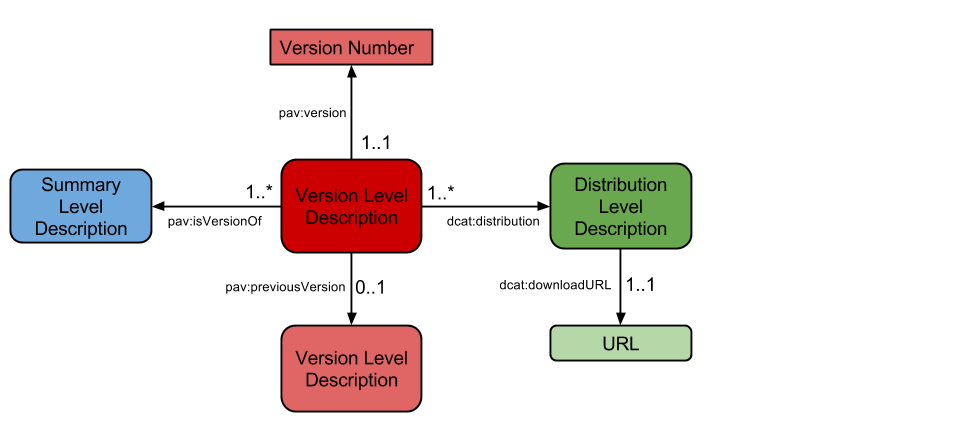
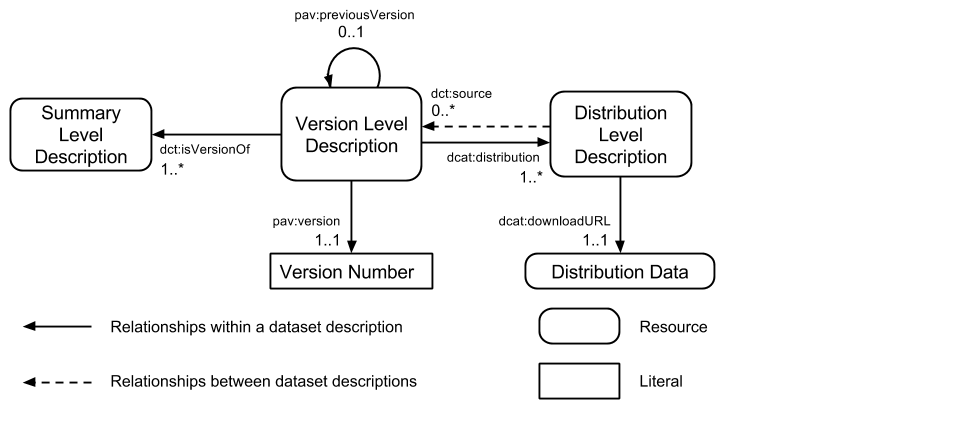
Updated Figure 1 and its caption. Shows all essential relationships and includes a legend.

diff --git a/Overview.html b/Overview.html
@@ -262,8 +262,8 @@ pre {
     </ul>
 
     <p style="text-align: center">
-    <img src="Figure1.png" alt="Figure 1: An overview of the relationships between dataset description levels. A single summary level description for a dataset will be related to one or more version level descriptions using dct:isVersionOf. Incremental versions may be specified using pav:previousVersion. Each version level description will be linked to one or more distribution level descriptions using dcat:distribution."></img><br />
-    Figure 1: An overview of the relationships between dataset description levels. A single summary level description for a dataset will be related to one or more version level descriptions using dct:isVersionOf. Incremental versions may be specified using pav:previousVersion. Each version level description will be linked to one or more distribution level descriptions using dcat:distribution.
+    <img src="Figure1.png" alt="Figure 1: An overview of the relationships between dataset description levels. A single summary level description for a dataset will be related to one or more version level descriptions using dct:isVersionOf. Incremental versions may be specified using pav:previousVersion. Each version level description will be linked to one or more distribution level descriptions using dcat:distribution. Derivative and augmented datasets, or dataset mash-ups, make use of dct:source to denote their source datasets."></img><br />
+    Figure 1: An overview of the relationships between dataset description levels. A single summary level description for a dataset will be related to one or more version level descriptions using dct:isVersionOf. Incremental versions may be specified using pav:previousVersion. Each version level description will be linked to one or more distribution level descriptions using dcat:distribution. Derivative and augmented datasets, or dataset mash-ups, make use of dct:source to denote their source datasets.
     </p>
 
     <p>Note that a distribution is the realisation of the data in a specific file format. The different distributions of a dataset may not be semantically equivalent due to differences between the data formats. For example, a chemical dataset may be released as a rich RDF dataset but also as an <a href="http://en.wikipedia.org/wiki/Chemical_table_file#SDF">SD file</a>. In this case, the SD file will not contain the same data content as the RDF dataset.</p>
